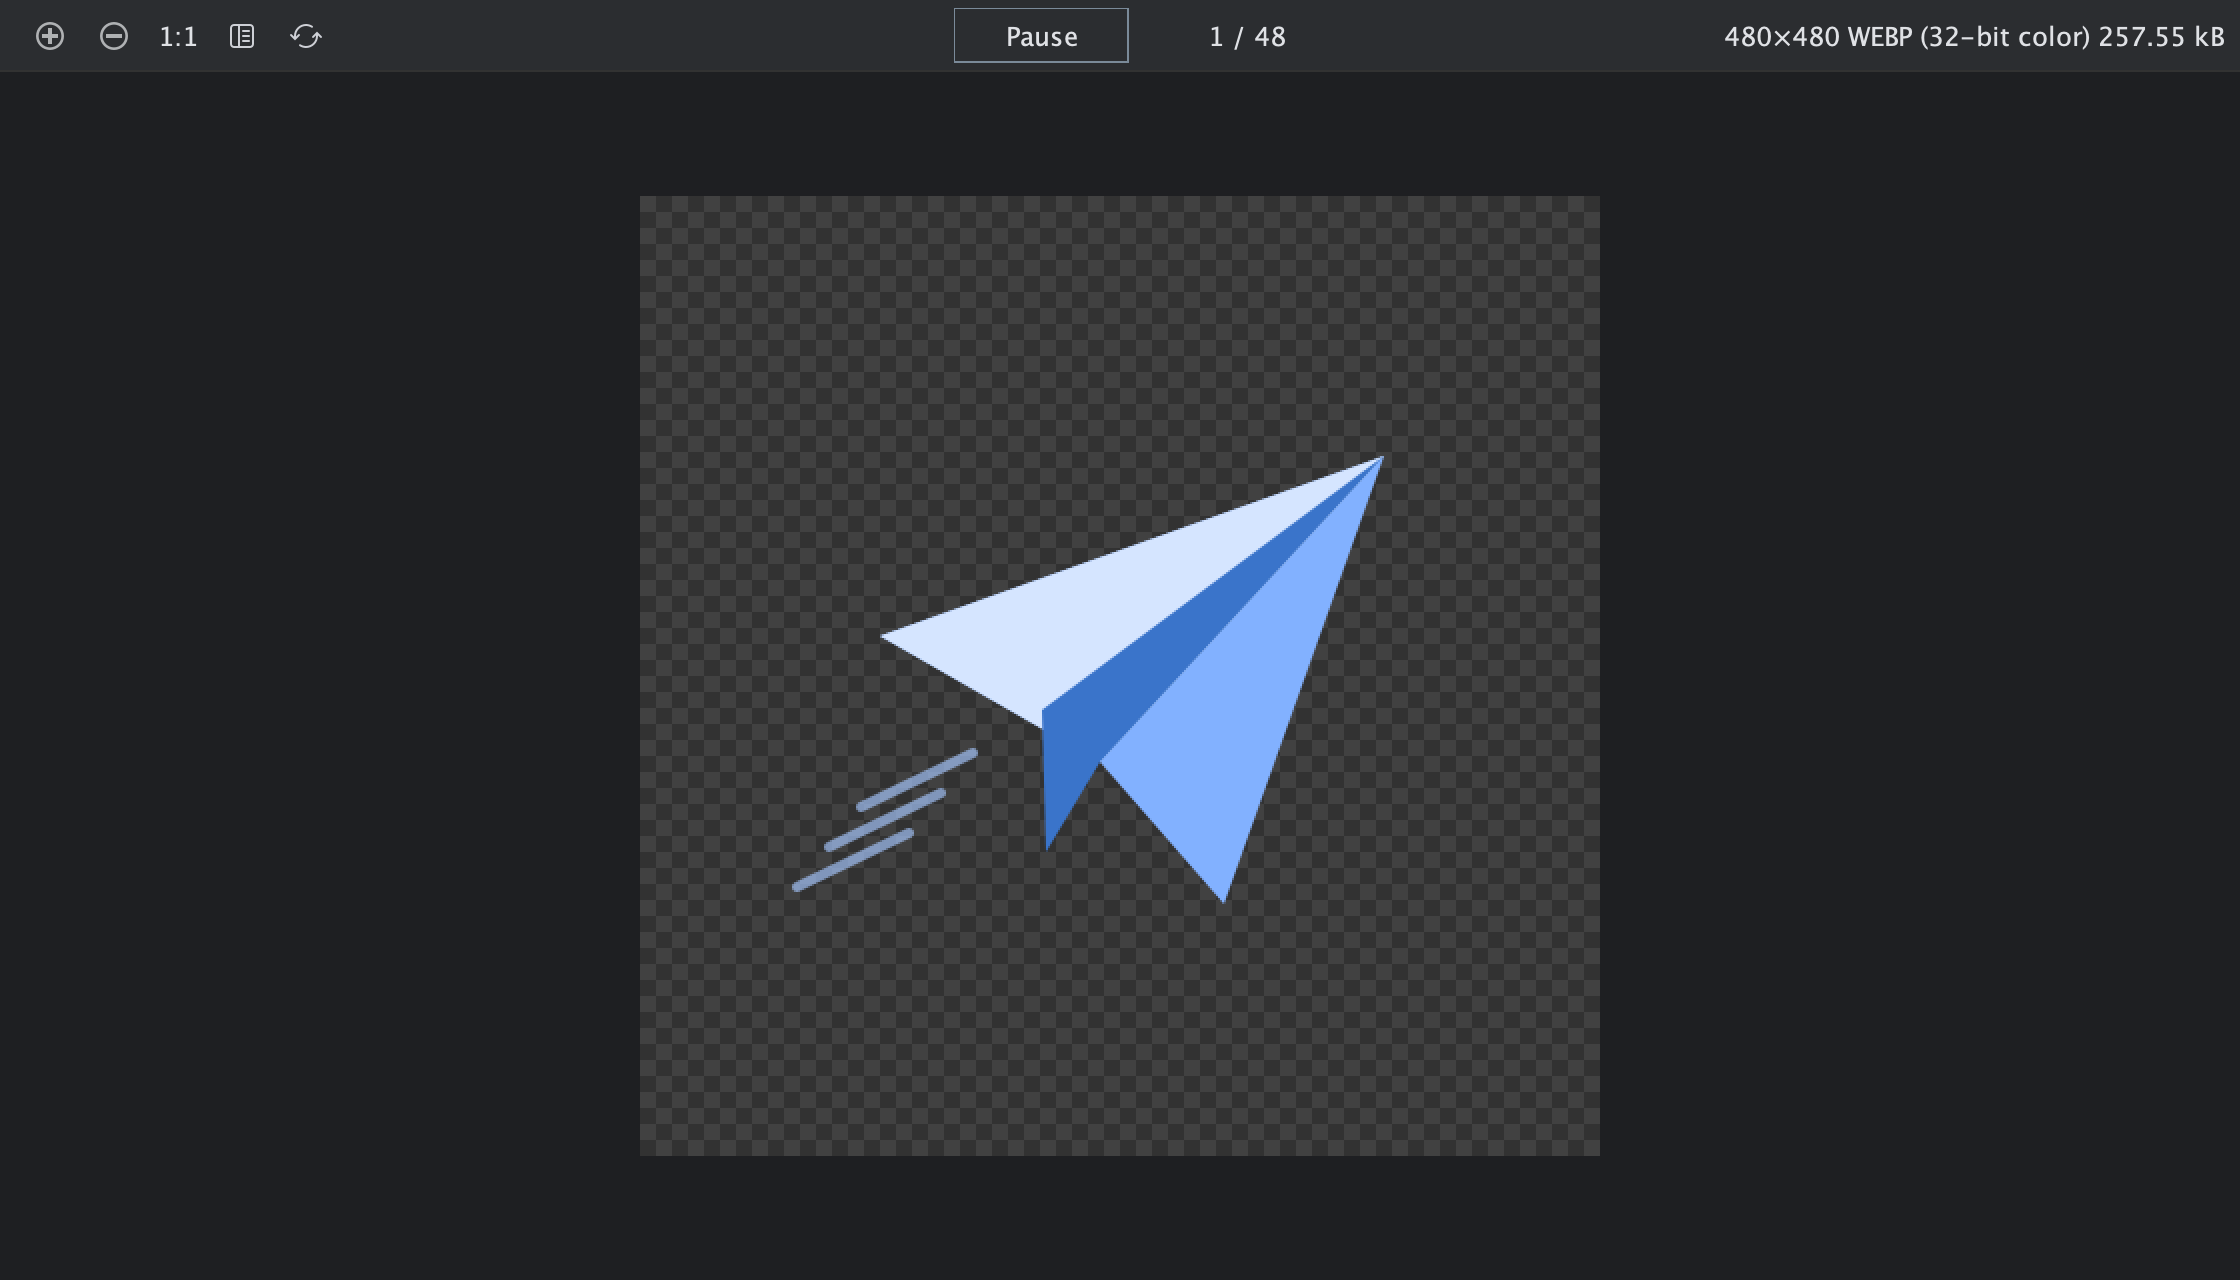
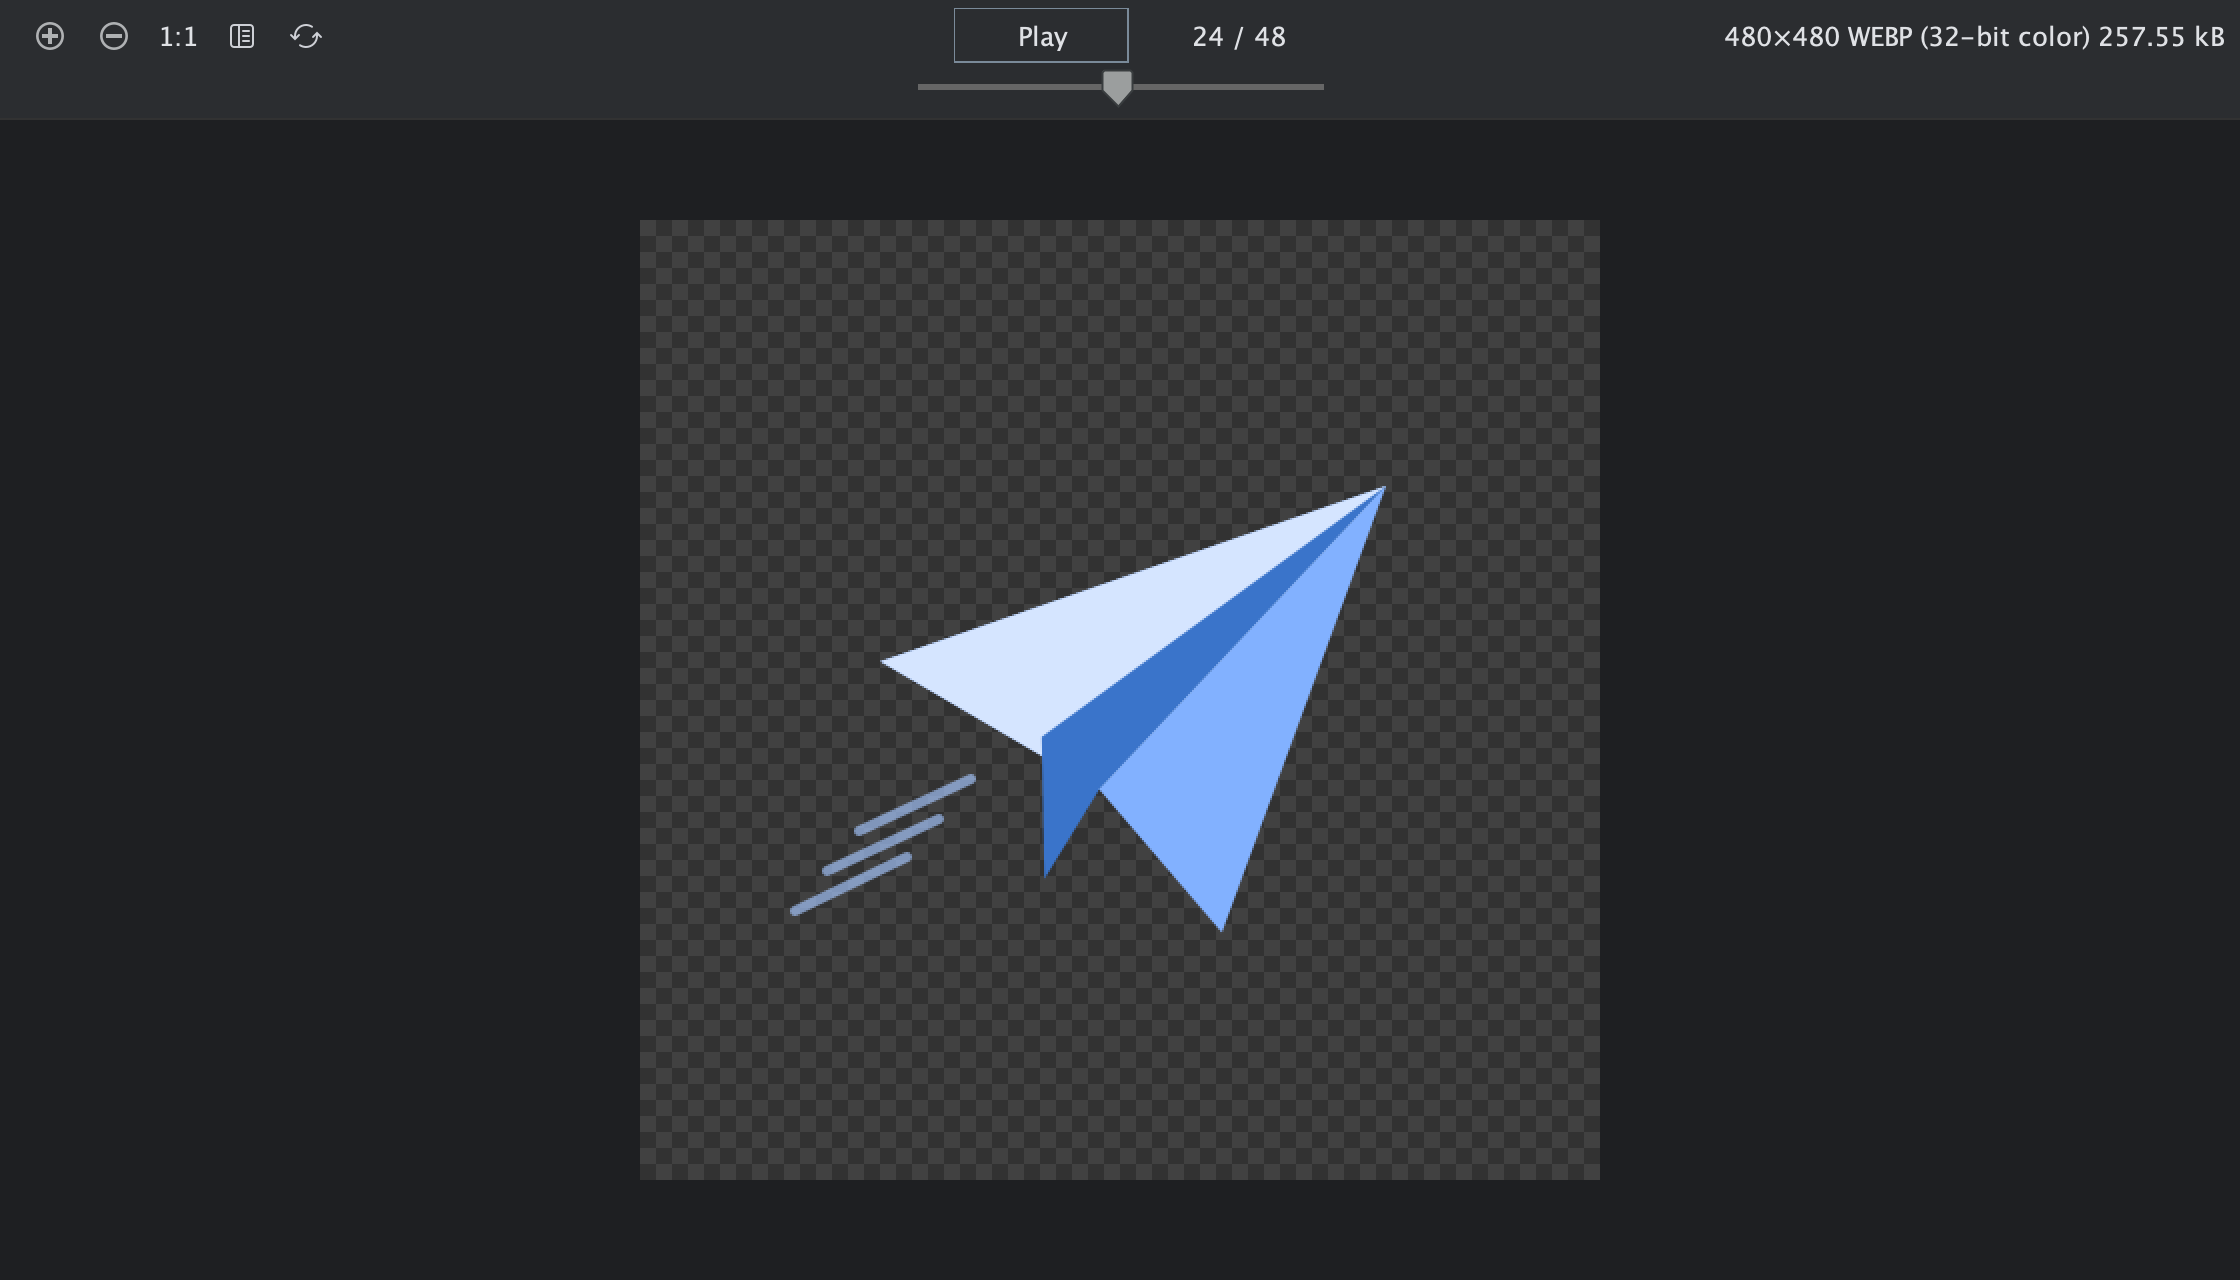
feat: add frame scrubbing in 1.0.0

diff --git a/src/main/kotlin/io/github/devweiqi/animatedwebpviewer/WebpPlaybackPanel.kt b/src/main/kotlin/io/github/devweiqi/animatedwebpviewer/WebpPlaybackPanel.kt
@@ -12,6 +12,7 @@ import javax.swing.ImageIcon
 import javax.swing.JButton
 import javax.swing.JLabel
 import javax.swing.JPanel
+import javax.swing.JSlider
 import javax.swing.SwingConstants
 import javax.swing.Timer
 
@@ -19,6 +20,8 @@ class WebpPlaybackPanel(private val animation: WebpAnimation, fileSize: Long = 0
     private val preview = CheckerboardPreview()
     private val toggle = JButton("Pause")
     private val position = JLabel()
+    private val seek = JSlider(1, animation.frames.size, 1)
+    private var updatingSeek = false
     private var frameIndex = 0
     private var completedLoops = 0
     private var finished = false
@@ -39,6 +42,22 @@ class WebpPlaybackPanel(private val animation: WebpAnimation, fileSize: Long = 0
         position.preferredSize = Dimension(maxOf(JBUI.scale(72), counterWidth), metrics.height)
         position.horizontalAlignment = SwingConstants.RIGHT
         controls.add(position)
+        seek.accessibleContext.accessibleName = "Animation frame"
+        seek.isEnabled = animation.frames.size > 1
+        seek.addMouseListener(object : java.awt.event.MouseAdapter() {
+            override fun mousePressed(event: java.awt.event.MouseEvent) {
+                if (!disposed) pause()
+            }
+        })
+        seek.addChangeListener {
+            if (!updatingSeek && !disposed) {
+                pause()
+                frameIndex = seek.value - 1
+                completedLoops = 0
+                finished = false
+                showFrame()
+            }
+        }
         val tools = JPanel(FlowLayout(FlowLayout.LEADING, JBUI.scale(2), 0))
 
         fun tool(label: String, icon: javax.swing.Icon? = null, action: () -> Unit) {
@@ -46,10 +65,10 @@ class WebpPlaybackPanel(private val animation: WebpAnimation, fileSize: Long = 0
                 JButton(if (icon == null) label else "", icon).apply {
                     toolTipText = label
                     accessibleContext.accessibleName = label
-                    preferredSize = JBUI.size(30, 28)
                     margin = JBUI.emptyInsets()
                     isContentAreaFilled = false
                     isBorderPainted = false
+                    preferredSize = Dimension(maxOf(JBUI.scale(30), preferredSize.width), JBUI.scale(28))
                     addActionListener { action() }
                 }
             )
@@ -67,7 +86,7 @@ class WebpPlaybackPanel(private val animation: WebpAnimation, fileSize: Long = 0
         val toolbar = object : JPanel(null) {
             private fun rows(): Int {
                 val side = maxOf(tools.preferredSize.width, metadata.preferredSize.width)
-                return if (width >= 2 * side + controls.preferredSize.width + JBUI.scale(24)) {
+                return if (width >= 2 * side + maxOf(JBUI.scale(224), controls.preferredSize.width) + JBUI.scale(24)) {
                     1
                 } else if (width >= tools.preferredSize.width + metadata.preferredSize.width + JBUI.scale(24)) {
                     2
@@ -76,7 +95,7 @@ class WebpPlaybackPanel(private val animation: WebpAnimation, fileSize: Long = 0
                 }
             }
 
-            override fun getPreferredSize(): Dimension = Dimension(0, JBUI.scale(36 * rows()))
+            override fun getPreferredSize(): Dimension = Dimension(0, JBUI.scale(36 * rows() + 24))
 
             override fun doLayout() {
                 val gap = JBUI.scale(8)
@@ -84,11 +103,13 @@ class WebpPlaybackPanel(private val animation: WebpAnimation, fileSize: Long = 0
                 val row = JBUI.scale(36)
                 tools.setBounds(gap, JBUI.scale(4), tools.preferredSize.width, height)
                 controls.setBounds((width - controls.preferredSize.width) / 2, if (rows() == 1) JBUI.scale(4) else row + JBUI.scale(4), controls.preferredSize.width, height)
-                metadata.setBounds(maxOf(gap, width - metadata.preferredSize.width - gap), if (rows() == 3) 2 * row + JBUI.scale(4) else JBUI.scale(4), minOf(metadata.preferredSize.width, maxOf(0, width - 2 * gap)), height)
+                seek.setBounds((width - JBUI.scale(224)) / 2, controls.y + height, JBUI.scale(224), JBUI.scale(24))
+                metadata.setBounds(maxOf(gap, width - metadata.preferredSize.width - gap), if (rows() == 3) 2 * row + JBUI.scale(28) else JBUI.scale(4), minOf(metadata.preferredSize.width, maxOf(0, width - 2 * gap)), height)
             }
         }
         toolbar.add(tools)
         toolbar.add(controls)
+        toolbar.add(seek)
         toolbar.add(metadata)
         toolbar.border = JBUI.Borders.customLineBottom(com.intellij.ui.JBColor.border())
         toolbar.addComponentListener(object : java.awt.event.ComponentAdapter() {
@@ -130,6 +151,13 @@ class WebpPlaybackPanel(private val animation: WebpAnimation, fileSize: Long = 0
         preview.icon = ImageIcon(animation.frames[frameIndex].image)
         preview.getAccessibleContext().accessibleName = "WebP frame ${frameIndex + 1} of ${animation.frames.size}"
         position.text = "${frameIndex + 1} / ${animation.frames.size}"
+        updatingSeek = true
+        try {
+            seek.value = frameIndex + 1
+            seek.toolTipText = "Frame ${frameIndex + 1} of ${animation.frames.size}"
+        } finally {
+            updatingSeek = false
+        }
     }
 
     private fun scheduleFrame() {
@@ -158,6 +186,7 @@ class WebpPlaybackPanel(private val animation: WebpAnimation, fileSize: Long = 0
         disposed = true
         timer.stop()
         toggle.isEnabled = false
+        seek.isEnabled = false
         preview.icon = null
         animation.frames.forEach { it.image.flush() }
     }

diff --git a/src/smoke/kotlin/io/github/devweiqi/animatedwebpviewer/WebpSmoke.kt b/src/smoke/kotlin/io/github/devweiqi/animatedwebpviewer/WebpSmoke.kt
@@ -106,13 +106,21 @@ private fun checkPlayback(animation: WebpAnimation) {
     lateinit var button: JButton
     lateinit var position: JLabel
     val changed = CountDownLatch(1)
+    lateinit var seek: javax.swing.JSlider
     SwingUtilities.invokeAndWait {
         player = WebpPlaybackPanel(animation = animation.copy(loopCount = 0))
         check(components(player).filterIsInstance<JLabel>().single { it.name == "metadata" }.text.startsWith("4×2 WEBP (32-bit color)"))
         val controls = components(player).filterIsInstance<Container>().single { it.name == "playback" }
         button = controls.components.filterIsInstance<JButton>().single()
         position = controls.components.filterIsInstance<JLabel>().single()
-        button.doClick(0)
+        seek = components(player).filterIsInstance<javax.swing.JSlider>().single()
+        seek.value = 2
+        check(button.text == "Play" && position.text == "2 / 3")
+        seek.valueIsAdjusting = true
+        seek.value = 3
+        seek.valueIsAdjusting = false
+        check(position.text == "3 / 3")
+        seek.value = 1
         check(button.text == "Play")
     }
     Thread.sleep(120)
@@ -125,7 +133,7 @@ private fun checkPlayback(animation: WebpAnimation) {
     check(changed.await(2, TimeUnit.SECONDS)) { "Resumed animation did not advance" }
     SwingUtilities.invokeAndWait {
         player.dispose()
-        check(!button.isEnabled)
+        check(!button.isEnabled && !seek.isEnabled)
     }
     lateinit var finite: WebpPlaybackPanel
     val completed = CountDownLatch(1)
@@ -314,6 +322,10 @@ private fun checkToolbar() {
                 check(kotlin.math.abs(bounds.centerX - width / 2.0) <= 1) { "Playback must stay centered at $width" }
                 check(bounds.y >= 0 && bounds.maxY <= panel.height)
                 check(metadata.width > 0)
+                val slider = components(panel).filterIsInstance<javax.swing.JSlider>().single()
+                val sliderBounds = SwingUtilities.convertRectangle(slider.parent, slider.bounds, panel)
+                check(sliderBounds.y >= bounds.maxY && sliderBounds.maxY <= panel.height)
+                check(kotlin.math.abs(sliderBounds.centerX - width / 2.0) <= 1)
             }
             val canvas = components(panel).filterIsInstance<CheckerboardPreview>().single()
 
@@ -351,6 +363,11 @@ private fun writePreview(input: String, output: String) {
         for (key in listOf("Label.foreground", "Button.foreground")) javax.swing.UIManager.put(key, foreground)
         for (key in listOf("Label.font", "Button.font")) javax.swing.UIManager.put(key, java.awt.Font("SansSerif", java.awt.Font.PLAIN, 13))
         val panel = WebpPlaybackPanel(animation, Files.size(java.nio.file.Path.of(input)))
+        components(panel).filterIsInstance<javax.swing.JSlider>().forEach {
+            it.setUI(com.intellij.ide.ui.laf.darcula.ui.DarculaSliderUI(it))
+            it.isOpaque = false
+            it.value = maxOf(1, animation.frames.size / 2)
+        }
         panel.setSize(1120, 640)
 
         fun layout(container: Container) {

diff --git a/README.md b/README.md
@@ -4,7 +4,7 @@ Play animated WebP directly in Android Studio editor tabs, including files outsi
 
 ![Animated WebP Viewer preview](docs/preview.png)
 
-* Play and pause animations without JCEF.
+* Play and pause animations without JCEF. Drag the frame slider to pause on a frame, then resume from there.
 * Preview transparency on a checkerboard.
 * Fit images within the available space while preserving their aspect ratio.
 * Show original dimensions and a fixed-width frame counter.
@@ -12,7 +12,7 @@ Play animated WebP directly in Android Studio editor tabs, including files outsi
 
 ## Install
 
-Download the ZIP from [Releases](https://github.com/dev-weiqi/animated-webp-viewer/releases). In Android Studio, open **Settings → Plugins → gear icon → Install Plugin from Disk**, choose `animated-webp-viewer-0.1.0.zip`, then restart.
+Download the ZIP from [Releases](https://github.com/dev-weiqi/animated-webp-viewer/releases). In Android Studio, open **Settings → Plugins → gear icon → Install Plugin from Disk**, choose `animated-webp-viewer-1.0.0.zip`, then restart.
 
 Open an animated `.webp` file using the IDE's normal open action. If the file was already open before installation, close and reopen its editor tab.
 
@@ -24,7 +24,7 @@ Build with JDK 21 using `./gradlew buildPlugin`. The build uses `/Applications/A
 
 Run `./gradlew check verifyPluginProjectConfiguration verifyPlugin` for automated checks and compatibility verification.
 
-Requires IntelliJ Platform build 261 or later and the bundled WebP plugin. The initial target is Android Studio 2026.1.4. Automated checks do not replace testing editor selection in a running IDE.
+Requires IntelliJ Platform build 261 or later and the bundled WebP plugin. The initial target is Android Studio 2026.2.1. Automated checks do not replace testing editor selection in a running IDE.
 
 ## Limits
 
